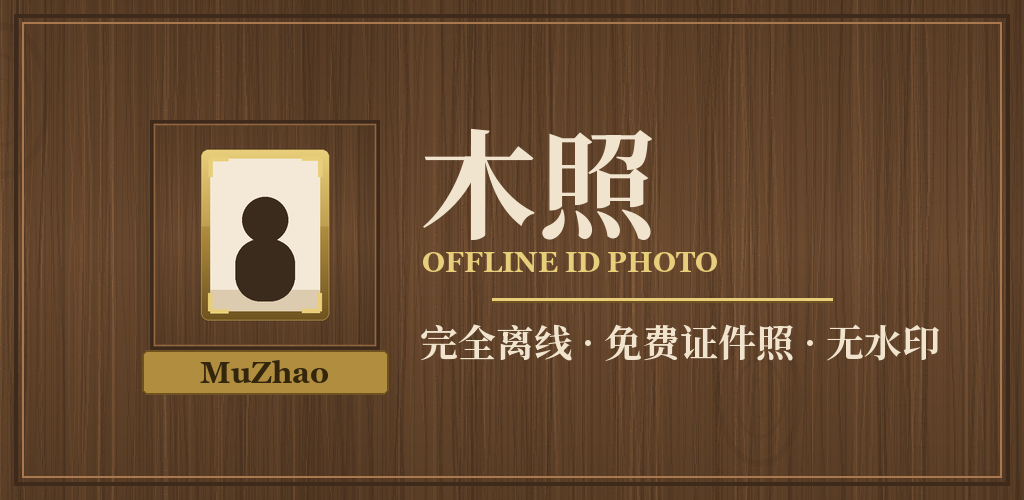
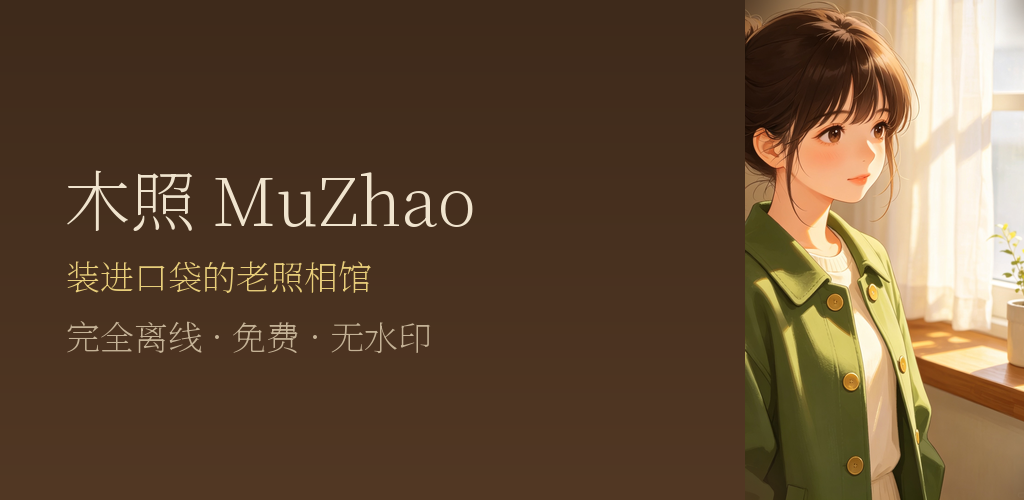
art: 关于页嵌吉祥物立绘 + feature graphic 重做 + 站点素材同步
- about_sheet 证书卡顶部嵌木木头像（assets/images/mascot_about.jpg）
- feature_graphic 1024x500 重做：暗木渐变+立绘椭圆融入+衬线标语
- site feature_graphic/demo_pair 同步；pubspec 增 assets/images/

diff --git a/lib/ui/widgets/about_sheet.dart b/lib/ui/widgets/about_sheet.dart
@@ -161,6 +161,17 @@ class _CertificateCard extends StatelessWidget {
               mainAxisSize: MainAxisSize.min,
               crossAxisAlignment: CrossAxisAlignment.stretch,
               children: <Widget>[
+                // 吉祥物"木木"立绘头像（豆包生成，阶段 6）：给证书卡一张脸
+                ClipRRect(
+                  borderRadius: BorderRadius.circular(4),
+                  child: Image.asset(
+                    'assets/images/mascot_about.jpg',
+                    height: 132,
+                    width: double.infinity,
+                    fit: BoxFit.cover,
+                  ),
+                ),
+                const SizedBox(height: 10),
                 Text(
                   '木照 MuZhao',
                   textAlign: TextAlign.center,
